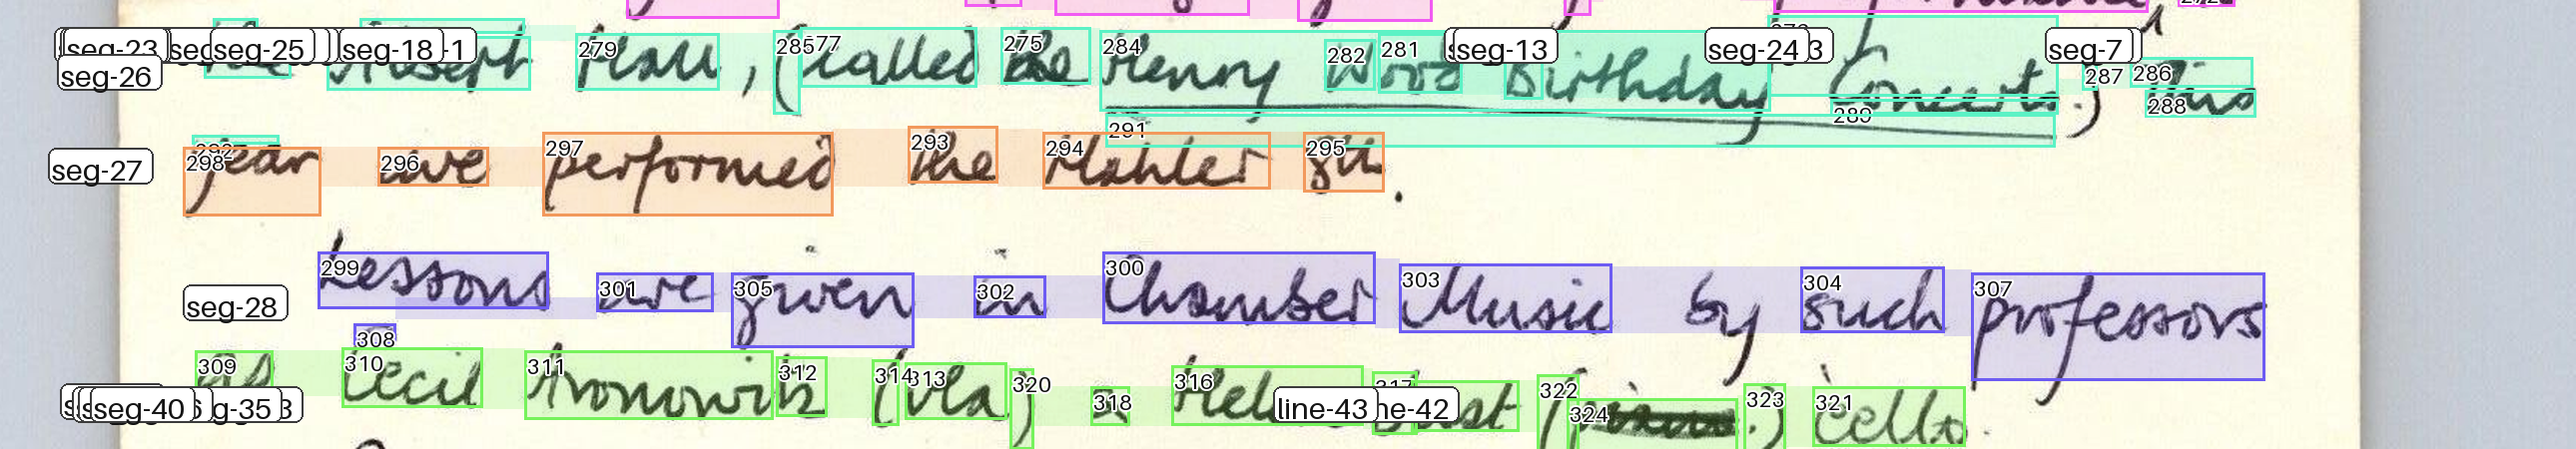
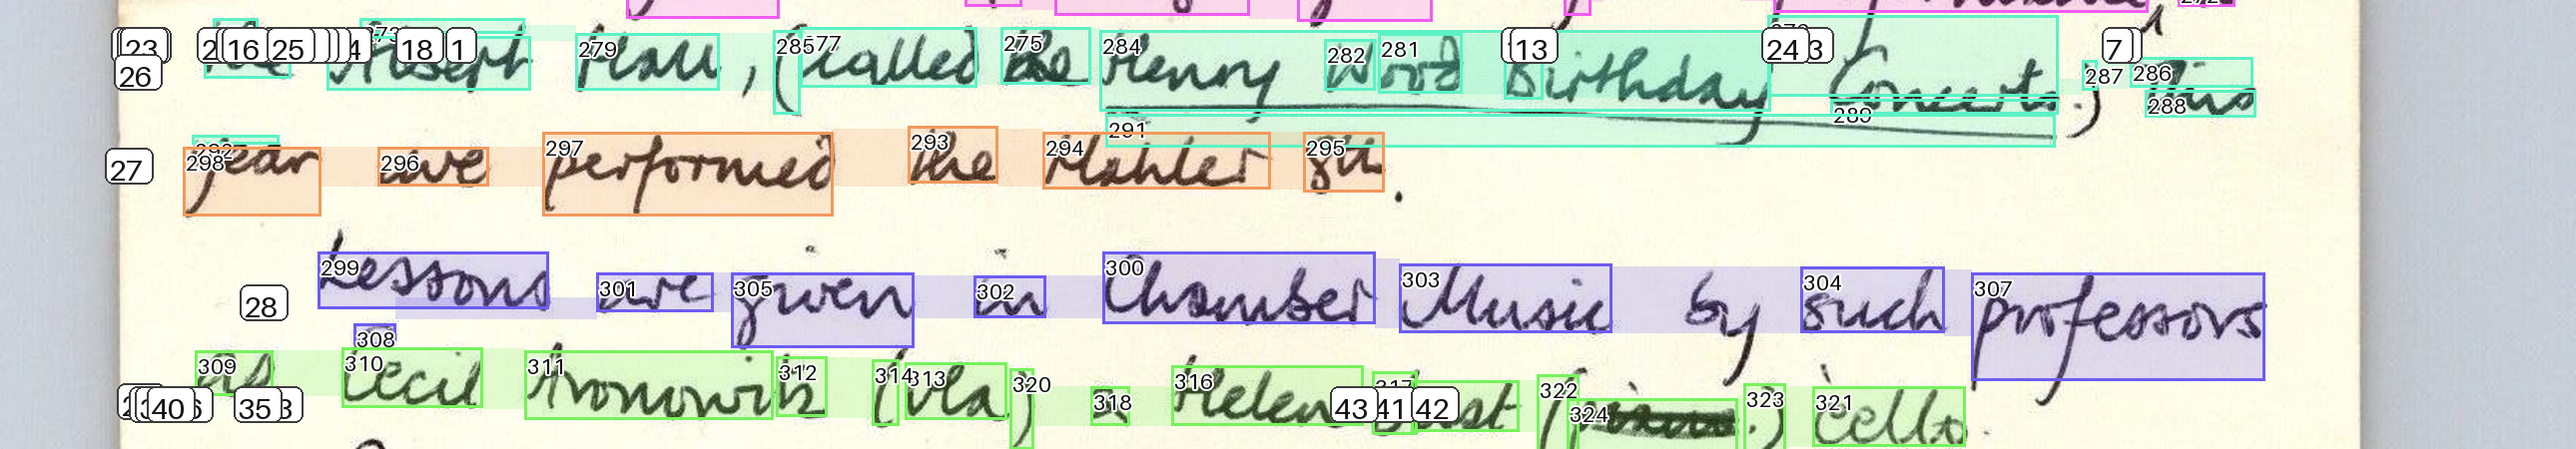
spike: bare user-facing line numbers everywhere
seg-N/line-N/int-N prefixes are gone: 1..43, printed verbatim. The map
labels read 40/41/42/43 as the user sees them.

diff --git a/tests/test_spike_gold.py b/tests/test_spike_gold.py
@@ -111,7 +111,7 @@ def test_a_segment_mixes_no_strokes() -> None:
 # defects are deliberately NOT pinned here: the band crush and the
 # interjection (their own failing tests).
 EXPECTED_MAPPING = {
-    "seg-1": [
+    "1": [
         3,
         4,
         5,
@@ -126,14 +126,14 @@ EXPECTED_MAPPING = {
         14,
         15,
     ],
-    "seg-2": [
+    "2": [
         17,
         18,
         19,
         20,
         21,
     ],
-    "seg-3": [
+    "3": [
         22,
         23,
         24,
@@ -141,7 +141,7 @@ EXPECTED_MAPPING = {
         26,
         27,
     ],
-    "seg-4": [
+    "4": [
         34,
         35,
         36,
@@ -160,7 +160,7 @@ EXPECTED_MAPPING = {
         49,
         50,
     ],
-    "seg-5": [
+    "5": [
         52,
         53,
         54,
@@ -176,15 +176,15 @@ EXPECTED_MAPPING = {
         66,
         67,
     ],
-    "seg-6": [
+    "6": [
         59,
         60,
     ],
-    "seg-7": [
+    "7": [
         69,
         70,
     ],
-    "seg-8": [
+    "8": [
         75,
         76,
         77,
@@ -202,7 +202,7 @@ EXPECTED_MAPPING = {
         89,
         90,
     ],
-    "seg-9": [
+    "9": [
         92,
         94,
         95,
@@ -215,13 +215,13 @@ EXPECTED_MAPPING = {
         103,
         104,
     ],
-    "seg-10": [
+    "10": [
         105,
     ],
-    "seg-11": [
+    "11": [
         107,
     ],
-    "seg-12": [
+    "12": [
         110,
         111,
         112,
@@ -232,11 +232,11 @@ EXPECTED_MAPPING = {
         118,
         119,
     ],
-    "seg-13": [
+    "13": [
         120,
         121,
     ],
-    "seg-14": [
+    "14": [
         126,
         128,
         129,
@@ -251,14 +251,14 @@ EXPECTED_MAPPING = {
         138,
         139,
     ],
-    "seg-15": [
+    "15": [
         140,
         141,
         142,
         143,
         144,
     ],
-    "seg-16": [
+    "16": [
         146,
         147,
         148,
@@ -273,7 +273,7 @@ EXPECTED_MAPPING = {
         157,
         158,
     ],
-    "seg-17": [
+    "17": [
         159,
         160,
         161,
@@ -288,11 +288,11 @@ EXPECTED_MAPPING = {
         170,
         171,
     ],
-    "seg-18": [
+    "18": [
         172,
         173,
     ],
-    "seg-19": [
+    "19": [
         174,
         175,
         176,
@@ -311,7 +311,7 @@ EXPECTED_MAPPING = {
         189,
         190,
     ],
-    "seg-20": [
+    "20": [
         197,
         198,
         199,
@@ -324,7 +324,7 @@ EXPECTED_MAPPING = {
         206,
         207,
     ],
-    "seg-21": [
+    "21": [
         209,
         210,
         211,
@@ -343,7 +343,7 @@ EXPECTED_MAPPING = {
         224,
         225,
     ],
-    "seg-22": [
+    "22": [
         227,
         228,
         229,
@@ -366,21 +366,21 @@ EXPECTED_MAPPING = {
         246,
         247,
     ],
-    "seg-23": [
+    "23": [
         248,
         249,
         250,
         251,
         252,
     ],
-    "seg-24": [
+    "24": [
         254,
         255,
         256,
         257,
         258,
     ],
-    "seg-25": [
+    "25": [
         259,
         260,
         261,
@@ -396,7 +396,7 @@ EXPECTED_MAPPING = {
         271,
         272,
     ],
-    "seg-26": [
+    "26": [
         273,
         274,
         275,
@@ -417,7 +417,7 @@ EXPECTED_MAPPING = {
         291,
         292,
     ],
-    "seg-27": [
+    "27": [
         293,
         294,
         295,
@@ -425,7 +425,7 @@ EXPECTED_MAPPING = {
         297,
         298,
     ],
-    "seg-28": [
+    "28": [
         299,
         300,
         301,
@@ -436,7 +436,7 @@ EXPECTED_MAPPING = {
         307,
         308,
     ],
-    "seg-29": [
+    "29": [
         309,
         310,
         311,
@@ -453,7 +453,7 @@ EXPECTED_MAPPING = {
         323,
         324,
     ],
-    "seg-30": [
+    "30": [
         326,
         327,
         328,
@@ -466,7 +466,7 @@ EXPECTED_MAPPING = {
         335,
         336,
     ],
-    "seg-31": [
+    "31": [
         337,
         338,
         339,
@@ -478,7 +478,7 @@ EXPECTED_MAPPING = {
         345,
         346,
     ],
-    "seg-32": [
+    "32": [
         347,
         348,
         349,
@@ -489,7 +489,7 @@ EXPECTED_MAPPING = {
         354,
         355,
     ],
-    "seg-33": [
+    "33": [
         356,
         357,
         358,
@@ -499,7 +499,7 @@ EXPECTED_MAPPING = {
         362,
         363,
     ],
-    "seg-34": [
+    "34": [
         366,
         367,
         368,
@@ -515,7 +515,7 @@ EXPECTED_MAPPING = {
         378,
         379,
     ],
-    "seg-35": [
+    "35": [
         381,
         382,
         383,
@@ -526,7 +526,7 @@ EXPECTED_MAPPING = {
         388,
         389,
     ],
-    "seg-36": [
+    "36": [
         391,
         392,
         393,
@@ -543,7 +543,7 @@ EXPECTED_MAPPING = {
         404,
         405,
     ],
-    "seg-37": [
+    "37": [
         406,
         407,
         408,
@@ -558,7 +558,7 @@ EXPECTED_MAPPING = {
         421,
         423,
     ],
-    "seg-40": [
+    "40": [
         427,
         429,
         431,
@@ -586,9 +586,9 @@ EXPECTED_MAPPING = {
         453,
         454,
     ],
-    "line-41": [415, 413, 416, 425],
-    "line-42": [428, 430],
-    "line-43": [455],
+    "41": [415, 413, 416, 425],
+    "42": [428, 430],
+    "43": [455],
 }
 
 
@@ -620,18 +620,18 @@ def test_each_band_covers_its_words() -> None:
 
 
 def test_the_bottom_interjection_is_three_lines() -> None:
-    """The bottom's small writing, adjudicated (user 2026-09-12): line-41 =
-    (415, 413, 416, 425), line-42 = (428, 430), line-43 = (455). Seg-40 is
-    the last main line ending at 454 — 455 belongs to line-43, never to a
+    """The bottom's small writing, adjudicated (user 2026-09-12): 41 =
+    (415, 413, 416, 425), 42 = (428, 430), 43 = (455). 40 is
+    the last main line ending at 454 — 455 belongs to 43, never to a
     main line."""
     segments = build_gold(FIXTURE)
     actual = {r: seg["id"] for seg in segments for r in seg["word_ids"]}
-    assert actual.get(455) == "line-43", f"word 455 in {actual.get(455)} — line-43's word"
-    assert actual.get(430) == "line-42", f"word 430 in {actual.get(430)} — line-42's word"
-    mains = [s for s in segments if s["id"] == "seg-40"]
-    assert len(mains) == 1 and mains[0]["type"] == "body", "seg-40 must be the single last-main segment"
-    assert mains[0]["word_ids"][-1] == 454, f"seg-40 ends at 454, ends {mains[0]['word_ids'][-3:]}"
-    got = sorted(r for s in segments if s["id"] in ("line-41", "line-42", "line-43") for r in s["word_ids"])
+    assert actual.get(455) == "43", f"word 455 in {actual.get(455)} — 43's word"
+    assert actual.get(430) == "42", f"word 430 in {actual.get(430)} — 42's word"
+    mains = [s for s in segments if s["id"] == "40"]
+    assert len(mains) == 1 and mains[0]["type"] == "body", "40 must be the single last-main segment"
+    assert mains[0]["word_ids"][-1] == 454, f"40 ends at 454, ends {mains[0]['word_ids'][-3:]}"
+    got = sorted(r for s in segments if s["id"] in ("41", "42", "43") for r in s["word_ids"])
     expected = [413, 416, 415, 425, 428, 455, 430]
     assert sorted(got) == sorted(expected), f"bottom lines' words: {got} vs {expected}"
 def test_the_map_paints_words_not_rectangles() -> None:

diff --git a/tools/spike_gold.py b/tools/spike_gold.py
@@ -182,7 +182,7 @@ def build_gold(data_dir: Path) -> list[dict]:
     )
     segments.sort(key=lambda s: s["y0"])
     for number, segment in enumerate((s for s in segments if not s["id"]), start=1):
-        segment["id"] = f"seg-{number}"
+        segment["id"] = str(number)
     return segments
 
 
@@ -193,7 +193,7 @@ def _bottom_lines(pairs: list[tuple[int, int]], words: list[dict], segments: lis
         pages = [p for p, r in pairs if r in line]
         segments.append(
             {
-                "id": f"line-{line_number}",
+                "id": str(line_number),
                 "type": "interjection",
                 "word_ids": sorted(line),
                 "injection_point": None,
